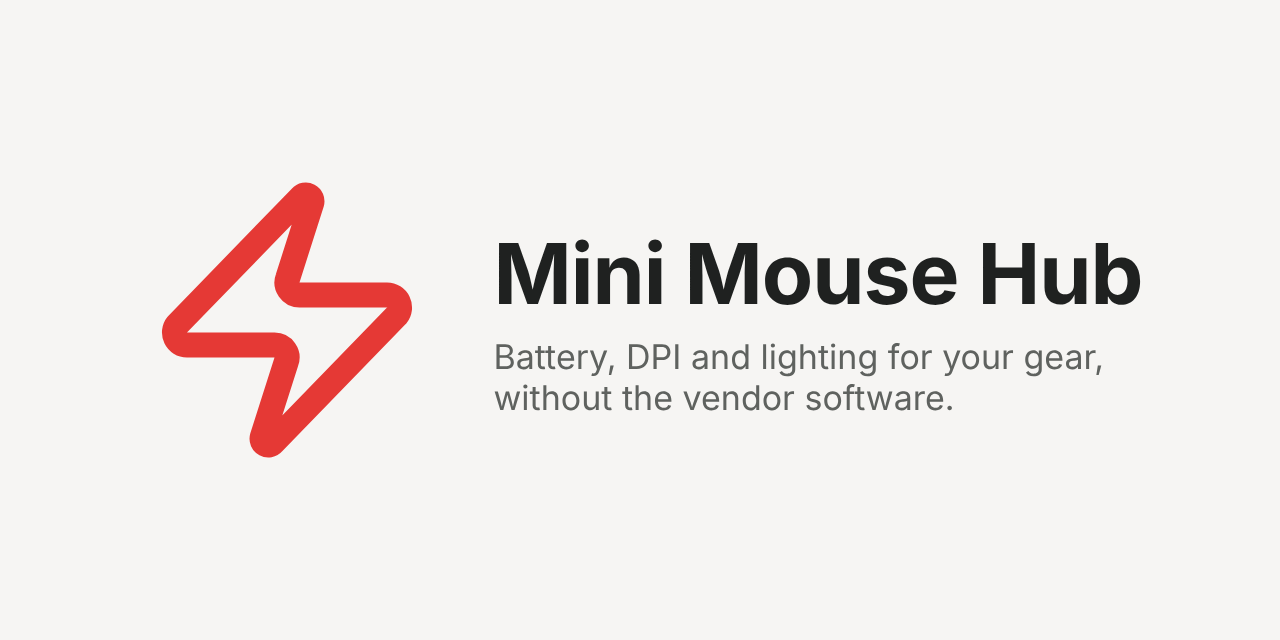
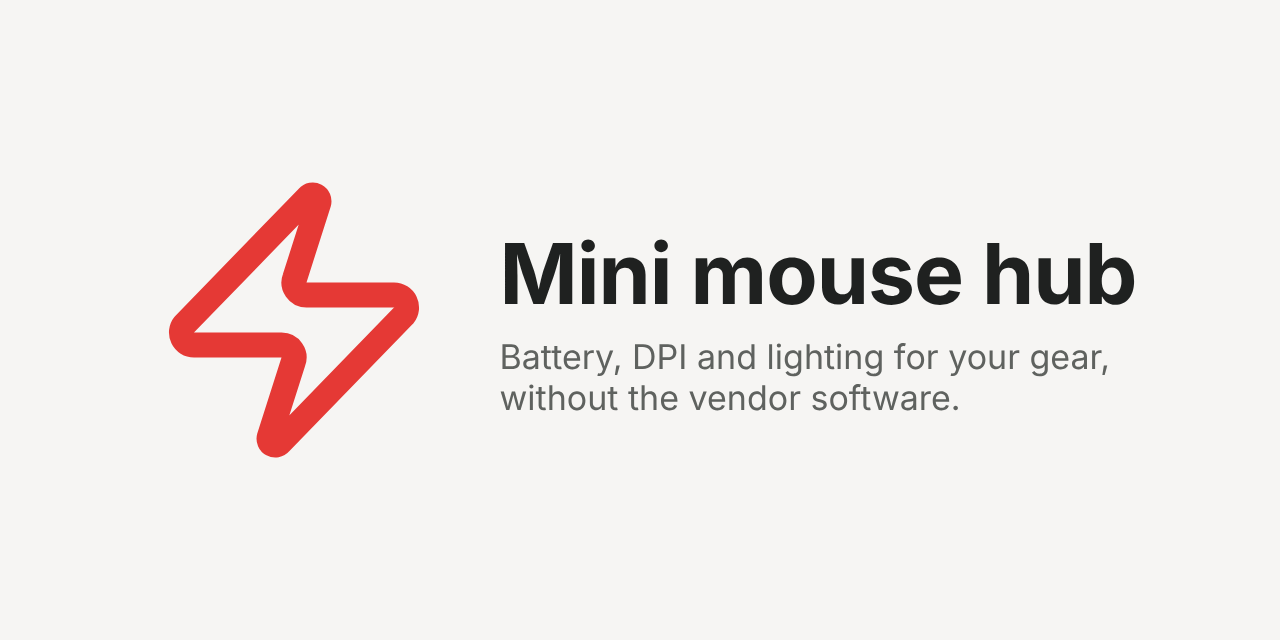
Call the app "Mini mouse hub" everywhere it shows its name
Claude-Session: https://claude.ai/code/session_0171jtmsg1snDcp9Y8ezDtcw

diff --git a/src/MiniMouseHub.App/MainWindow.xaml b/src/MiniMouseHub.App/MainWindow.xaml
@@ -1,7 +1,7 @@
 <Window x:Class="MiniMouseHub.App.MainWindow"
         xmlns="http://schemas.microsoft.com/winfx/2006/xaml/presentation"
         xmlns:x="http://schemas.microsoft.com/winfx/2006/xaml"
-        Title="Mini Mouse Hub"
+        Title="Mini mouse hub"
         Icon="Assets/app.ico"
         Width="780" Height="560" MinWidth="520" MinHeight="420"
         WindowStartupLocation="CenterScreen"
@@ -31,7 +31,7 @@
                 <Button x:Name="BackButton" Content="&#xE72B;" Style="{StaticResource ChromeButton}" FontSize="13"
                         Height="32" Click="Back_Click" Visibility="Collapsed" ToolTip="Back" />
                 <Image Source="Assets/app.ico" Width="16" Height="16" Margin="14,0,10,0" />
-                <TextBlock x:Name="TitleText" Text="Mini Mouse Hub" FontSize="12" VerticalAlignment="Center" />
+                <TextBlock x:Name="TitleText" Text="Mini mouse hub" FontSize="12" VerticalAlignment="Center" />
             </StackPanel>
             <StackPanel Grid.Column="2" Orientation="Horizontal">
                 <Button Content="&#xE72C;" Style="{StaticResource ChromeButton}" Click="Refresh_Click" ToolTip="Look for devices again" />

diff --git a/src/MiniMouseHub.App/GitHubBackupCard.cs b/src/MiniMouseHub.App/GitHubBackupCard.cs
@@ -109,7 +109,7 @@ internal sealed class GitHubBackupCard
     {
         _content.Children.Clear();
         _content.Children.Add(Ui.Label("BACKUP TO GITHUB"));
-        _content.Children.Add(Ui.Text($"Enter this code at {device.VerificationUri} to let Mini Mouse Hub save gists for you:", 13, "Muted"));
+        _content.Children.Add(Ui.Text($"Enter this code at {device.VerificationUri} to let Mini mouse hub save gists for you:", 13, "Muted"));
         var code = new TextBox
         {
             Text = device.UserCode,
@@ -149,7 +149,7 @@ internal sealed class GitHubBackupCard
         var json = await _sync.DownloadAsync(_settings.GitHub!);
         if (json == null)
             return "There's no backup on GitHub yet. Use Back up now first.";
-        var answer = MessageBox.Show("Replace the settings on this PC with your backup from GitHub?", "Mini Mouse Hub",
+        var answer = MessageBox.Show("Replace the settings on this PC with your backup from GitHub?", "Mini mouse hub",
             MessageBoxButton.OKCancel, MessageBoxImage.Question);
         if (answer != MessageBoxResult.OK)
             return "Restore cancelled.";

diff --git a/src/MiniMouseHub.App/App.xaml.cs b/src/MiniMouseHub.App/App.xaml.cs
@@ -30,7 +30,7 @@ public partial class App : Application
         catch (AbandonedMutexException) { isFirst = true; }
         if (!isFirst)
         {
-            MessageBox.Show("Mini Mouse Hub is already running. Look for it in the system tray.", "Mini Mouse Hub");
+            MessageBox.Show("Mini mouse hub is already running. Look for it in the system tray.", "Mini mouse hub");
             _singleInstance = null;
             Shutdown();
             return;
@@ -59,7 +59,7 @@ public partial class App : Application
         if (!e.Args.Contains("--minimized"))
             ShowWindow();
         if (justUpdated)
-            _tray.Notify("Mini Mouse Hub updated", $"You're now on version {Updater.CurrentVersion}.");
+            _tray.Notify("Mini mouse hub updated", $"You're now on version {Updater.CurrentVersion}.");
         _monitor.Start();
 
         _updateTimer = new System.Windows.Threading.DispatcherTimer { Interval = UpdateCheckInterval };

diff --git a/src/MiniMouseHub.App/GitHubSync.cs b/src/MiniMouseHub.App/GitHubSync.cs
@@ -13,11 +13,11 @@ namespace MiniMouseHub.App;
 /// </summary>
 public sealed class GitHubSync
 {
-    /// <summary>Client ID of the Mini Mouse Hub OAuth app (with Device Flow enabled). Client IDs are public.</summary>
+    /// <summary>Client ID of the Mini mouse hub OAuth app (with Device Flow enabled). Client IDs are public.</summary>
     public const string ClientId = "Ov23liP8WLQzxcRmd1uq";
 
     public const string BackupFileName = "mini-mouse-hub-settings.json";
-    private const string GistDescription = "Mini Mouse Hub settings backup";
+    private const string GistDescription = "Mini mouse hub settings backup";
 
     private static readonly HttpClient Http = CreateClient();
 

diff --git a/src/MiniMouseHub.App/TrayIcon.cs b/src/MiniMouseHub.App/TrayIcon.cs
@@ -17,13 +17,13 @@ public sealed class TrayIcon : IDisposable
     public TrayIcon(Action open, Action quit)
     {
         var menu = new ContextMenuStrip();
-        menu.Items.Add("Open Mini Mouse Hub", null, (_, _) => open());
+        menu.Items.Add("Open Mini mouse hub", null, (_, _) => open());
         menu.Items.Add(new ToolStripSeparator());
         menu.Items.Add("Quit", null, (_, _) => quit());
 
         _icon = new NotifyIcon
         {
-            Text = "Mini Mouse Hub",
+            Text = "Mini mouse hub",
             ContextMenuStrip = menu,
             Visible = true,
         };

diff --git a/src/MiniMouseHub.Cli/Program.cs b/src/MiniMouseHub.Cli/Program.cs
@@ -1,7 +1,7 @@
 using MiniMouseHub.Core;
 using MiniMouseHub.Core.Hidpp;
 
-// Mini Mouse Hub test tool: finds Logitech HID++ devices and reads battery and DPI.
+// Mini mouse hub test tool: finds Logitech HID++ devices and reads battery and DPI.
 //
 //   mmh                 show every device found, with battery and DPI
 //   mmh features        also list every HID++ feature each device has

diff --git a/src/MiniMouseHub.App/MainWindow.xaml.cs b/src/MiniMouseHub.App/MainWindow.xaml.cs
@@ -98,7 +98,7 @@ public partial class MainWindow : Window
         _devicePage = null;
         _keyTester = null;
         BackButton.Visibility = Visibility.Collapsed;
-        TitleText.Text = "Mini Mouse Hub";
+        TitleText.Text = "Mini mouse hub";
         Page.Content = HomePage.Build(_devices, _firstScanDone, ShowDevice);
     }
 

diff --git a/README.md b/README.md
@@ -1,8 +1,8 @@
-<p align="center"><img src="docs/branding/logo.svg" width="96" alt="Mini Mouse Hub logo"></p>
+<p align="center"><img src="docs/branding/logo.svg" width="96" alt="Mini mouse hub logo"></p>
 
-# Mini Mouse Hub
+# Mini mouse hub
 
-Mini Mouse Hub is a small Windows app for checking and changing your gaming gear's settings without installing the manufacturer's software (such as Logitech G HUB). It talks to the devices directly, stays out of the way in the system tray, and changes are saved on the device itself, so they keep working on any PC.
+Mini mouse hub is a small Windows app for checking and changing your gaming gear's settings without installing the manufacturer's software (such as Logitech G HUB). It talks to the devices directly, stays out of the way in the system tray, and changes are saved on the device itself, so they keep working on any PC.
 
 ## What it does
 
@@ -25,7 +25,7 @@ Mini Mouse Hub is a small Windows app for checking and changing your gaming gear
 
 ## Not supported yet
 
-These big gaming mouse brands don't work with Mini Mouse Hub so far:
+These big gaming mouse brands don't work with Mini mouse hub so far:
 
 - Razer
 - SteelSeries
